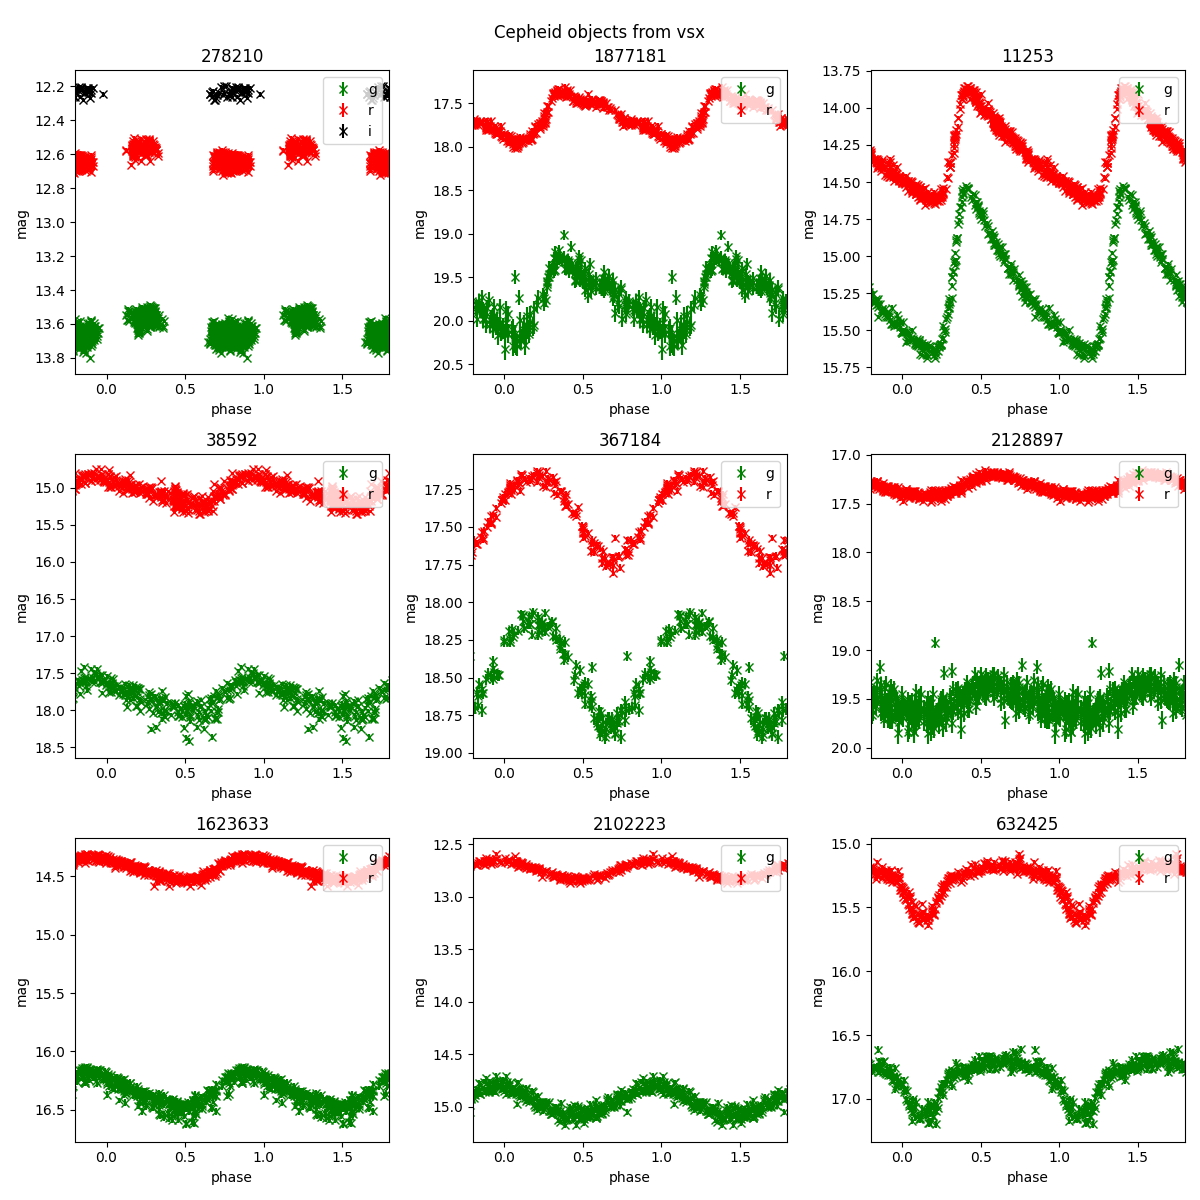
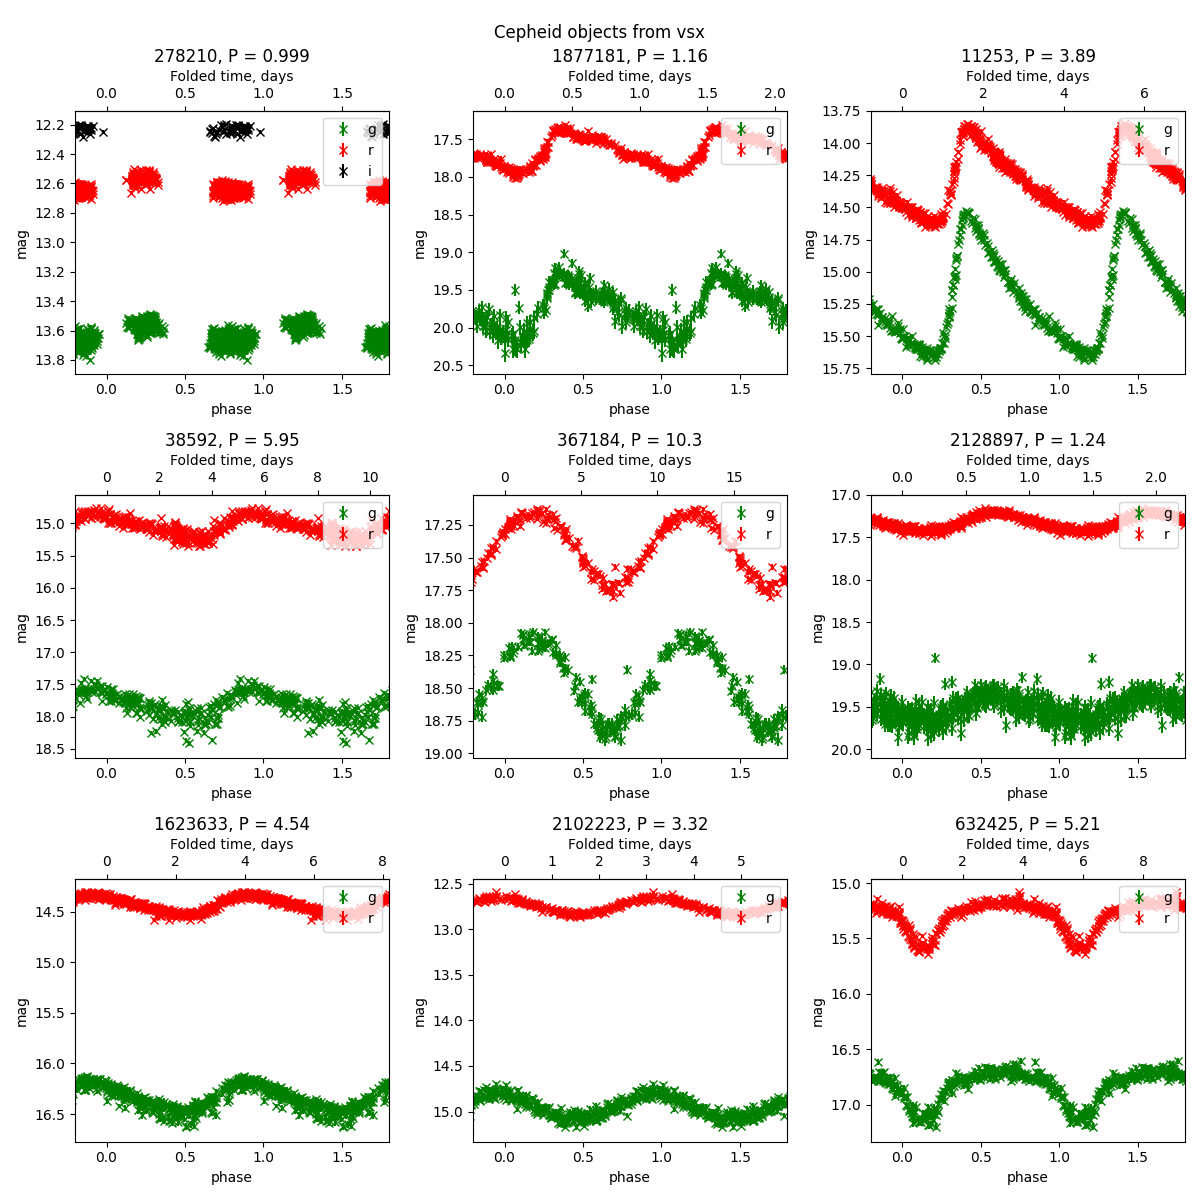
Add period to folded light curve plots

diff --git a/ch_vars/plot.py b/ch_vars/plot.py
@@ -118,11 +118,12 @@ def fold_lc(obj, period_range):
     period_range = period_range[0], min(period_range[1], np.ptp(obj['mjd']))
     lsmf.optimizer.period_range = period_range
     lsmf.fit(obj['mjd'], obj['mag'], obj['magerr'], obj['filter'])
-    phase = obj['mjd'] % lsmf.best_period / lsmf.best_period
-    folded = np.rec.fromrecords(
-        tuple(copy(obj[name]) if name != 'mjd' else phase for name in obj.dtype.names),
-        dtype=[(name, dt) if name != 'mjd' else ('phase', object) for name, dt in obj.dtype.descr],
-    )
+    period = lsmf.best_period
+    folded_time = obj['mjd'] % period
+    phase = folded_time / period
+    records = copy(obj.item()) + (folded_time, phase, period)
+    dtype = obj.dtype.descr + [('folded_time', object), ('phase', object), ('period', float)]
+    folded = np.rec.fromrecords(records, dtype=dtype)
     return folded
 
 
@@ -263,7 +264,7 @@ def plot_folded(ax, obj, *, bands):
     lcs = {band: {'phase': obj['phase'].item()[idx], 'mag': obj['mag'].item()[idx], 'magerr': obj['magerr'].item()[idx]}
            for band in bands
            if np.count_nonzero(idx := obj['filter'].item() == band) > 0}
-    ax.set_title(obj['id'])
+    ax.set_title(f'{obj["id"]}, P = {obj["period"]:.3g}')
     ax.set_xlabel('phase')
     ax.set_ylabel('mag')
     ax.invert_yaxis()
@@ -276,6 +277,8 @@ def plot_folded(ax, obj, *, bands):
                 label=label,
             )
     ax.set_xlim([-0.2, 1.8])
+    secax = ax.secondary_xaxis('top', functions=(lambda x: x * obj['period'], lambda x: x / obj['period']))
+    secax.set_xlabel('Folded time, days')
     ax.legend(loc='upper right')
 
 
